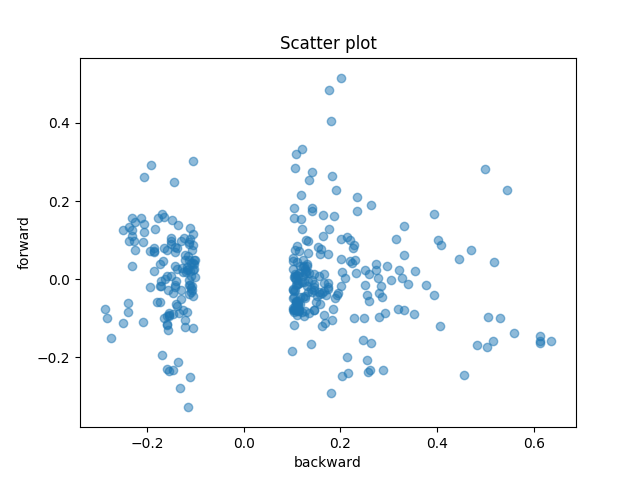
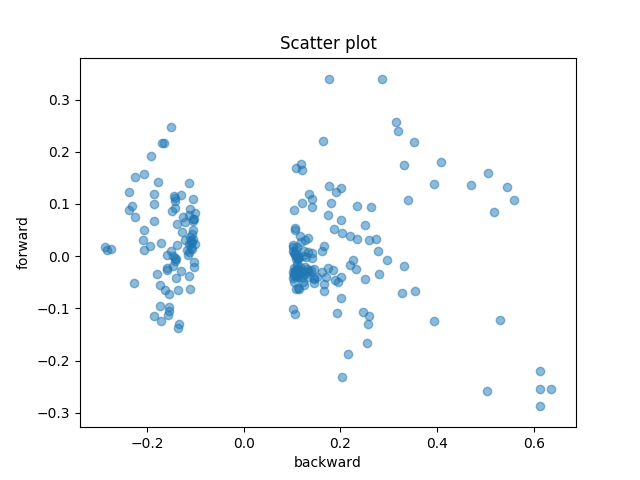
more analysis, more parameter, refactoring

diff --git a/analysis/strategy.py b/analysis/strategy.py
@@ -2,126 +2,62 @@ import pandas as pd, numpy as np
 
 from util.market import MARKET_MODE
 
-_DAILY_CHANGE_LOWER_LIMIT_KOR = 0.13
-_DAILY_CHANGE_UPPER_LIMIT_KOR = 0.3
-_DAILY_CHANGE_LOWER_LIMIT_US = 0.07
-_DAILY_CHANGE_UPPER_LIMIT_US = 0.2
-
+_CHANGE_LOWER_THRESHOLD = 0.1
+_CHANGE_UPPER_THRESHOLD = 0.2
+_TIME_WINDOW_MINUTES = 10
+_TIME_WINDOW_FORWARD_MINUTES_DROP = 5
+_TIME_WINDOW_FORWARD_MINUTES_JUMP = 10
 
 class Parameters:
-    def __init__(self, market_mode, feature_name):
-        lower_limit, upper_limit = _DAILY_CHANGE_LOWER_LIMIT_KOR, _DAILY_CHANGE_UPPER_LIMIT_KOR
-        if market_mode is MARKET_MODE.MARKET_KOR:
-            lower_limit = _DAILY_CHANGE_LOWER_LIMIT_KOR
-            upper_limit = _DAILY_CHANGE_UPPER_LIMIT_KOR
-        elif market_mode is MARKET_MODE.MARKET_US:
-            if feature_name == 'open_close':
-                lower_limit = 0.05
-                upper_limit = _DAILY_CHANGE_UPPER_LIMIT_US
-            elif feature_name == 'close_close':
-                lower_limit = 0.07
-                upper_limit = _DAILY_CHANGE_UPPER_LIMIT_US
-            elif feature_name == 'close_open':
-                lower_limit = 0.09
-                upper_limit = _DAILY_CHANGE_UPPER_LIMIT_US
-
-            #lower_limit = _DAILY_CHANGE_LOWER_LIMIT_US
-            #upper_limit = _DAILY_CHANGE_UPPER_LIMIT_US
-
-        self.lower_limit, self.upper_limit = lower_limit, upper_limit
+    def __init__(self):
+        change_lower_threshold = _CHANGE_LOWER_THRESHOLD
+        change_upper_threshold = _CHANGE_UPPER_THRESHOLD
+        time_window_minutes = _TIME_WINDOW_MINUTES
+        time_window_forward_drop_minutes = _TIME_WINDOW_FORWARD_MINUTES_DROP
+        time_window_forward_jump_minutes = _TIME_WINDOW_FORWARD_MINUTES_JUMP
+        self.change_lower_threshold = change_lower_threshold
+        self.change_upper_threshold = change_upper_threshold
+        self.time_window_minutes = time_window_minutes
+        self.time_window_forward_drop_minutes = time_window_forward_drop_minutes
+        self.time_window_forward_jump_minutes = time_window_forward_jump_minutes
 
     def __str__(self):
-        return "lower_limit: {lower_limit}, upper_limit: {upper_limit}".format(
-            lower_limit=self.lower_limit,
-            upper_limit=self.upper_limit)
+        return '''
+        change_lower_threshold: {change_lower_threshold}, 
+        change_upper_threshold: {change_upper_threshold},
+        time_window_minutes: {time_window_minutes}, 
+        time_window_forward_drop_minutes: {time_window_forward_drop_minutes},
+        time_window_forward_jump_minutes: {time_window_forward_jump_minutes}
+        '''.format(
+            change_lower_threshold=self.change_lower_threshold,
+            change_upper_threshold=self.change_upper_threshold,
+            time_window_minutes=self.time_window_minutes,
+            time_window_forward_drop_minutes=self.time_window_forward_drop_minutes,
+            time_window_forward_jump_minutes=self.time_window_forward_jump_minutes
+        )
 
-def indicator_by_feature_kor(df, feature_name):
-    '''
-    indicator decides which symbols should be traded the next day
-    :param df:
-    :param feature_name:
-    :param upper_limit:
-    :param lower_limit:
-    :return:
-    '''
-    print('by {column_name}'.format(column_name=feature_name))
-    parameters = Parameters(MARKET_MODE.MARKET_KOR, feature_name)
-    print('parameters')
-    print(parameters)
-    #df = df.loc[df['prev2_{column_name}'.format(column_name=column_name)] < consecutive_days_change_upper_limit]  # no consecutive jumps
-    df = df.loc[df[feature_name +'_1'] < parameters.upper_limit]
-    df = df.loc[df[feature_name +'_1'] > parameters.lower_limit]
-    df = df.loc[df[feature_name + '_3'] < parameters.lower_limit]
-    df = df.loc[df[feature_name + '_4'] < parameters.lower_limit]
+    def get_feature_backward(self):
+        return 'close_change_b_{w}_w{w}'.format(w=self.time_window_minutes)
 
-    df = df.loc[df['close_open_1'] > -0.02]
-    return df
+    def get_feature_forward_drop(self):
+        return 'close_change_f_{w}_w{w}'.format(w=self.time_window_forward_drop_minutes)
 
-def indicator_by_feature_us(df, feature_name):
-    '''
-    indicator decides which symbols should be traded the next day
-    :param df:
-    :param feature_name:
-    :param upper_limit:
-    :param lower_limit:
-    :return:
-    '''
-    print('by {column_name}'.format(column_name=feature_name))
-    parameters = Parameters(MARKET_MODE.MARKET_US, feature_name)
-    print('parameters')
-    print(parameters)
-    #df = df.loc[df['prev2_{column_name}'.format(column_name=column_name)] < consecutive_days_change_upper_limit]  # no consecutive jumps
-    df = df.loc[df[feature_name +'_1'] < parameters.upper_limit]
-    df = df.loc[df[feature_name +'_1'] > parameters.lower_limit]
-    df = df.loc[df[feature_name +'_2'] < parameters.upper_limit]
-    df = df.loc[df[feature_name +'_2'] > parameters.lower_limit]
-    df = df.loc[df[feature_name + '_3'] < 0.04]
-    #df = df.loc[df[feature_name + '_4'] < lower_limit]
-    #df = df.loc[df.volume_2 > df.volume_3]
-    df = df.loc[df.volume_1 > 4000]
+    def get_feature_forward_jump(self):
+        return 'close_change_f_{w}_w{w}'.format(w=self.time_window_forward_jump_minutes)
 
-    df = df.loc[df['close_open_1'] > -0.02]
-    return df
+def pick_signal(dff, parameter):
+    time_window_minutes = parameter.time_window_minutes
+    feature_backward = parameter.get_feature_backward()
+    feature_backward_2 = 'close_change_b_{window2}_w{window}'.format(window2=time_window_minutes * 2,
+                                                                     window=time_window_minutes)
+    feature_forward_drop = parameter.get_feature_forward_drop()
 
-def indicator_by_feature(df, feature_name, market_mode):
-    '''
-    indicator decides which symbols should be traded the next day
-    :param df:
-    :param feature_name:
-    :param upper_limit:
-    :param lower_limit:
-    :return:
-    '''
-    if market_mode is MARKET_MODE.MARKET_KOR:
-        return indicator_by_feature_kor(df, feature_name)
-    elif market_mode is MARKET_MODE.MARKET_US:
-        return indicator_by_feature_us(df, feature_name)
+    df_signal = dff[dff[feature_backward] != 0][dff[feature_forward_drop] != 0]
 
-debug_columns = ['open', 'close', 'open_close_1', 'close_open_1', 'close_close_1']
+    df_signal = df_signal[np.abs(df_signal[feature_backward]) > parameter.change_lower_threshold]
+    df_signal = df_signal[np.abs(df_signal[feature_backward]) < parameter.change_upper_threshold]
+    df_signal = df_signal[np.abs(df_signal[feature_backward_2]) < 0.10]
+    # dff = dff[dff[feature_backward] < -0.20]
+    # dff = dff[(dff[feature_backward] > 0.10) | (dff[feature_backward] < -0.10)]
 
-def print_profit_by_feature(df_by_feature):
-    print('open_close(sum of daily mean):', np.sum(df_by_feature.groupby(level=0).open_close_0.mean()))
-    print('close_open(sum of daily mean):', np.sum(df_by_feature.groupby(level=0).close_open_0.mean()))
-    print('close_close(sum of daily mean):', np.sum(df_by_feature.groupby(level=0).close_close_0.mean()))
-    print('closestopped_open(sum of daily mean):', np.sum(df_by_feature.groupby(level=0).closestopped_open_0.mean()))
-    print('closestopped_close(sum of daily mean):', np.sum(df_by_feature.groupby(level=0).closestopped_close_0.mean()))
-    print('')
-    print('open_close(mean):', df_by_feature.open_close_0.mean())
-    print('close_open(mean):', df_by_feature.close_open_0.mean())
-    print('close_close(mean):', df_by_feature.close_close_0.mean())
-    print('closestopped_open(mean):', df_by_feature.closestopped_open_0.mean())
-    print('closestopped_close(mean):', df_by_feature.closestopped_close_0.mean())
-    print('')
-    print('mean number of the events on event day:', df_by_feature.groupby(level=0).close.count().mean())
-    print('the number of the events:', len(df_by_feature))
-    print('the number of the eventful days:', len(set(df_by_feature.index.get_level_values(0))))
-    print('open_close(sum):', df_by_feature.open_close_0.sum())
-    print('close_open(sum):', df_by_feature.close_open_0.sum())
-    print('close_close(sum):', df_by_feature.close_close_0.sum())
-    print('')
-    print('open_close(std):', df_by_feature.open_close_0.std())
-    print('close_open(std):', df_by_feature.close_open_0.std())
-    print('close_close(std):', df_by_feature.close_close_0.std())
-
-    df_daily_mean = df_by_feature.groupby(level=0)[['open_close_0', 'close_open_0', 'close_close_0']].mean().sort_index(ascending=False)
-    print('')
+    return df_signal

diff --git a/sandbox.py b/sandbox.py
@@ -1,6 +1,6 @@
 import pandas as pd, numpy as np
 import util.time as util_time
-from analysis import features, daily_pick
+from analysis import features, strategy, evaluation
 import plots.scatter
 from util.market import MARKET_MODE
 import config
@@ -17,46 +17,26 @@ elif market_mode is MARKET_MODE.MARKET_US:
     df = pd.read_csv(filename, index_col=['time','symbol']).sort_index()
 
 df = df.loc[~df.index.duplicated(keep='first')]
-dff = features.add_features(df, market_mode=market_mode)
+dff_ = features.add_features(df, market_mode=market_mode)
 
-time_window_minutes = 15
-feature_backward = 'close_change_b_{window}_w{window}'.format(window=time_window_minutes)
-feature_forward = 'close_change_f_{window}_w{window}'.format(window=time_window_minutes)
-dff = dff[dff[feature_backward] != 0][dff[feature_forward] != 0]
+param = strategy.Parameters()
+df_signal = strategy.pick_signal(dff_, param)
 
-change_threshold = 0.10
-dff = dff[np.abs(dff[feature_backward]) > change_threshold]
-#dff = dff[dff[feature_backward] < -0.20]
-#dff = dff[(dff[feature_backward] > 0.10) | (dff[feature_backward] < -0.10)]
+evaluation.print_evaluation(df_signal, param)
 
-print('')
-print('time_window_minutes:', time_window_minutes)
-print('change_threshold:', change_threshold)
 
-print('')
-print('number of events:', len(dff))
-
-print('')
-profit = dff[dff[feature_backward] < 0][feature_forward].sum()
-profit += -dff[dff[feature_backward] > 0][feature_forward].sum()
-print('projected return (long and short):', profit)
-
-print('')
-profit = dff[dff[feature_backward] < 0][feature_forward].sum()
-print('projected return (long):', profit)
-
-print('')
-print(dff[[feature_backward, feature_forward]].corr())
-
-print('')
-print('outlying riser (>0.3)')
-print(dff[dff[feature_forward] > 0.3][['close_b_10', 'close_b_5', 'close', 'close_f_5', 'close_f_10']])
-
-image_file_name = 'images/time_window_minutes_{time_window_minutes}_{change_threshold}.png'.format(time_window_minutes=time_window_minutes, change_threshold=change_threshold)
+image_file_name = 'images/time_window_minutes_{time_window_minutes}_{change_lower_threshold}_drop.png'.format(time_window_minutes=param.time_window_minutes, change_lower_threshold=param.change_lower_threshold)
 plots.scatter.do_plot(
-    dff[feature_backward], dff[feature_forward],
+    df_signal[param.get_feature_backward()], df_signal[param.get_feature_forward_drop()],
     xlabel='backward',
-    ylabel='forward',
+    ylabel='forward(drop)',
+    image_file_name=image_file_name)
+
+image_file_name = 'images/time_window_minutes_{time_window_minutes}_{change_lower_threshold}_jump.png'.format(time_window_minutes=param.time_window_minutes, change_lower_threshold=param.change_lower_threshold)
+plots.scatter.do_plot(
+    df_signal[param.get_feature_backward()], df_signal[param.get_feature_forward_jump()],
+    xlabel='backward',
+    ylabel='forward(jump)',
     image_file_name=image_file_name)
 
 exit(0)

diff --git a/analysis/evaluation.py b/analysis/evaluation.py
@@ -1,0 +1,44 @@
+import numpy as np
+
+
+def print_evaluation(df_signal, param):
+    feature_backward = param.get_feature_backward()
+    feature_forward_drop = param.get_feature_forward_drop()
+    feature_forward_jump= param.get_feature_forward_jump()
+
+    print('')
+    print('time_window_minutes_backward:', param.time_window_minutes)
+    print('time_window_forward_drop_minutes:', param.time_window_forward_drop_minutes)
+    print('time_window_forward_jump_minutes:', param.time_window_forward_jump_minutes)
+    print('change_lower_threshold:', param.change_lower_threshold)
+    print('change_upper_threshold:', param.change_upper_threshold)
+
+    print('')
+    print('number of events:', len(df_signal))
+
+    profit_by_drop = df_signal[df_signal[feature_backward] < 0][feature_forward_drop].sum()
+
+    #profit_short = -df_signal[df_signal[feature_backward] > 0][feature_forward_jump].sum()
+    profit_by_jump = df_signal[df_signal[feature_backward] > 0][feature_forward_jump].sum()
+
+    profit = profit_by_drop + profit_by_jump
+
+    print('')
+    print('projected return (drop and jump):', profit)
+
+    print('')
+    print('projected return, longing drop:', profit_by_drop)
+
+    print('')
+    print('projected return longing jump:', profit_by_jump)
+
+    print('for drop')
+    print(df_signal[[feature_backward, feature_forward_drop]].corr())
+
+    print('for jump')
+    print(df_signal[[feature_backward, feature_forward_jump]].corr())
+
+    print('')
+    print('outlying riser (>0.3)')
+    print(df_signal[df_signal[feature_forward_jump] > 0.3][['close_b_10', 'close_b_5', 'close', 'close_f_5', 'close_f_10']])
+

diff --git a/analysis/features.py b/analysis/features.py
@@ -33,10 +33,9 @@ def add_features(df, market_mode=MARKET_MODE.MARKET_KOR):
             close_prev = df['close_b_{i}'.format(i=i)]
             df['close_change_b_{i}_w{window_size}'.format(i=i, window_size=window_size)] = (close_cur - close_prev) / close_prev
 
-        for i in range(window_size, 36, 5):
-            close_cur = df['close_f_{i}'.format(i=i)]
-            close_prev = df['close_f_{i}'.format(i=i-window_size)]
-            df['close_change_f_{i}_w{window_size}'.format(i=i, window_size=window_size)] = (close_cur - close_prev) / close_prev
+        close_cur = df['close_f_{i}'.format(i=window_size)]
+        close_prev = df['close_f_0']
+        df['close_change_f_{w}_w{w}'.format(w=window_size)] = (close_cur - close_prev) / close_prev
 
 
     df = df[df.open != 0]
